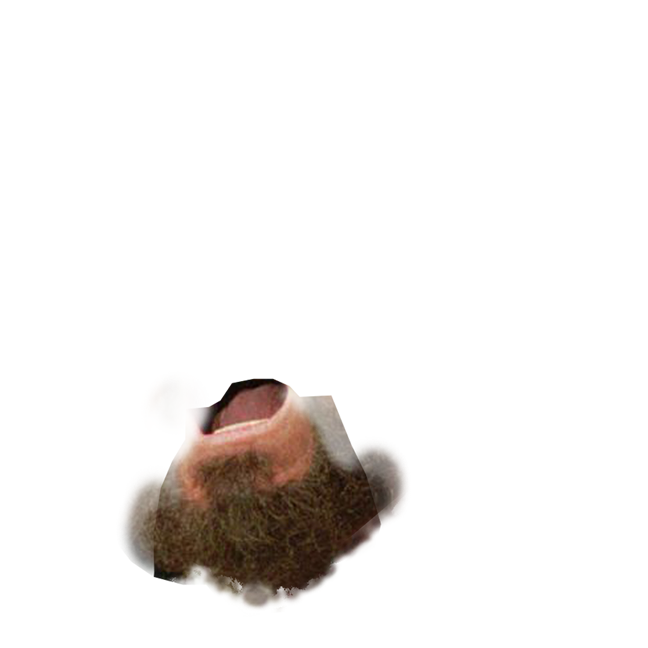
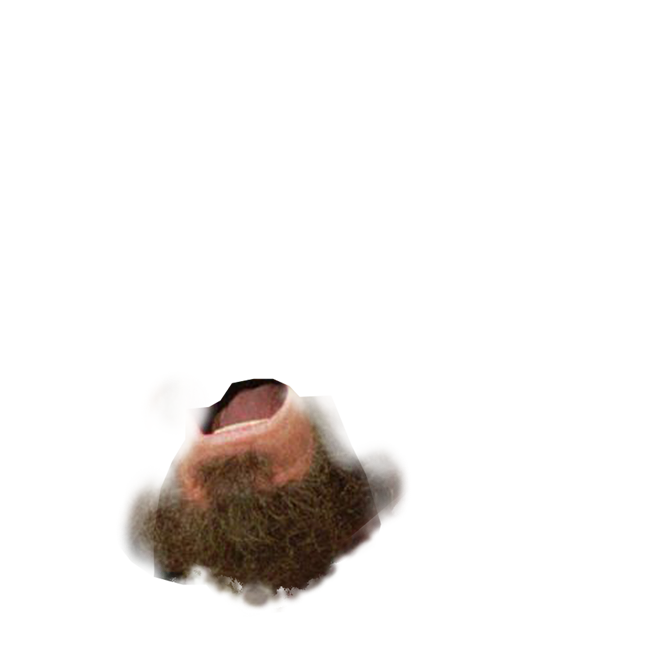
incremento

Changed region(s): [[0.463, 0.5864, 0.6173, 0.8333], [0.1852, 0.8333, 0.2778, 0.8951], [0.216, 0.7099, 0.2778, 0.7716]]

diff --git a/sketch.js b/sketch.js
@@ -1,11 +1,13 @@
 let pavaImage;
 let boccaImage;
+let sopraccigliaImage;
 let mySong;
 let analyzer;
 
 function preload(){
   pavaImage = loadImage("./assets/images/pava.png");
   boccaImage = loadImage("./assets/images/bocca.png");
+  sopraccigliaImage = loadImage("./assets/images/sopracciglia.png");
   mySong = loadSound("./assets/sounds/buongiorno.mp3");
 }
 
@@ -29,6 +31,7 @@ function draw() {
   imageMode(CENTER);
   image(pavaImage, width/2,height/2, pavaImage.width, pavaImage.height);
   image(boccaImage, width/2,(height/2+volume), boccaImage.width, boccaImage.height);
+  image(sopraccigliaImage, width/2,(height/2-(volume/2)), sopraccigliaImage.width, sopraccigliaImage.height);
 
   console.log(volume);
 }
